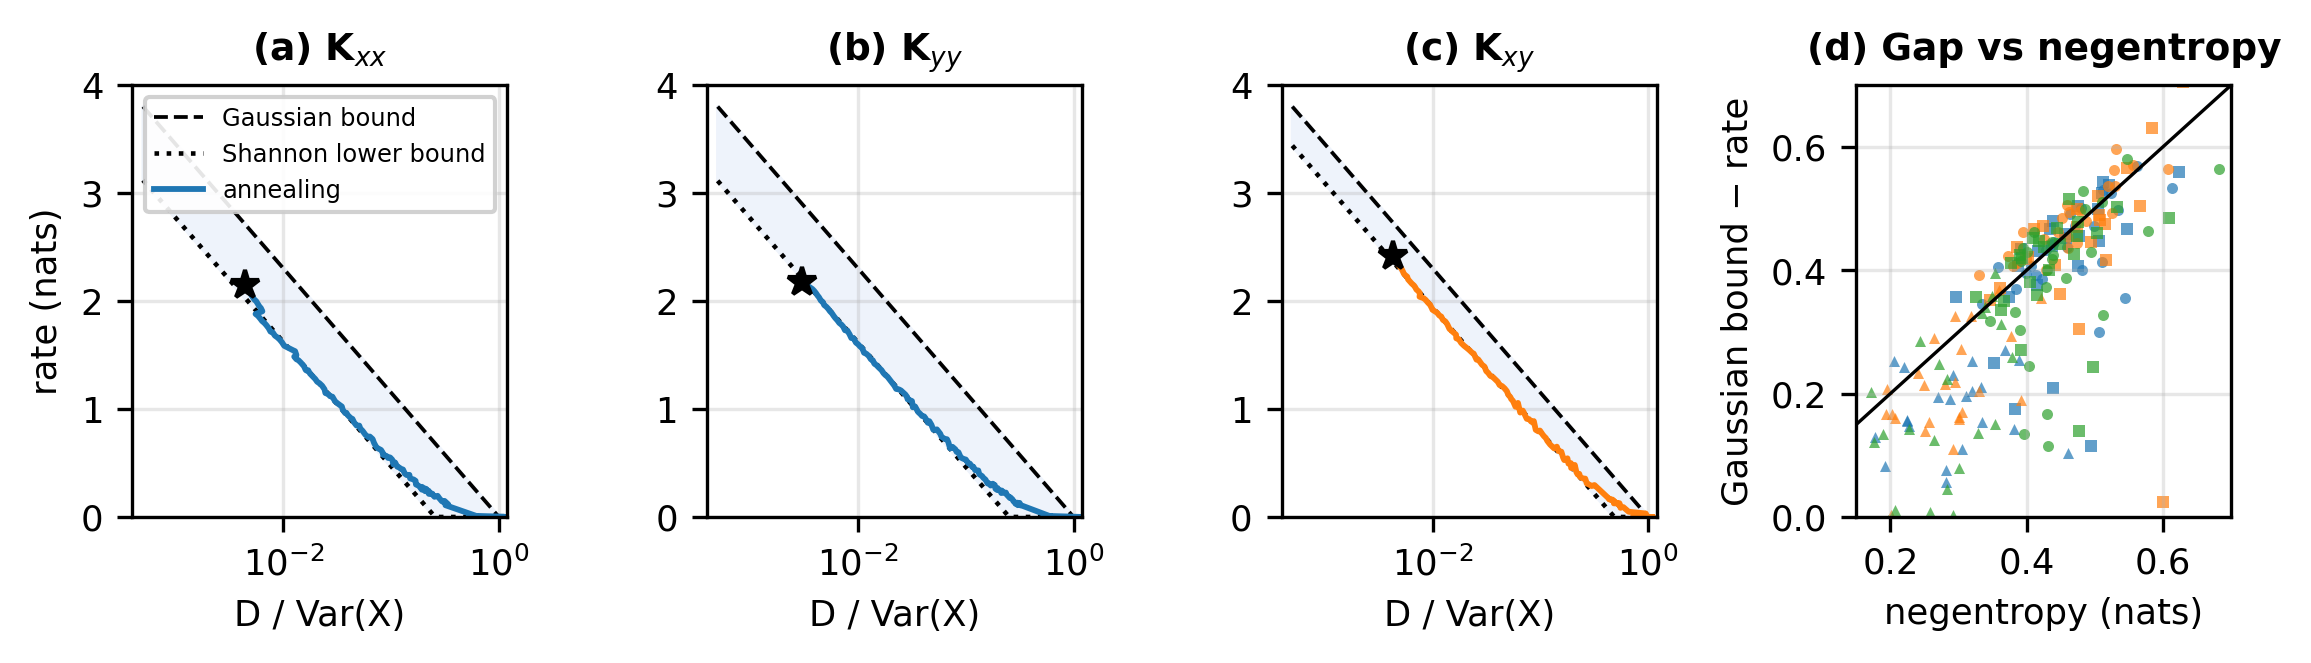
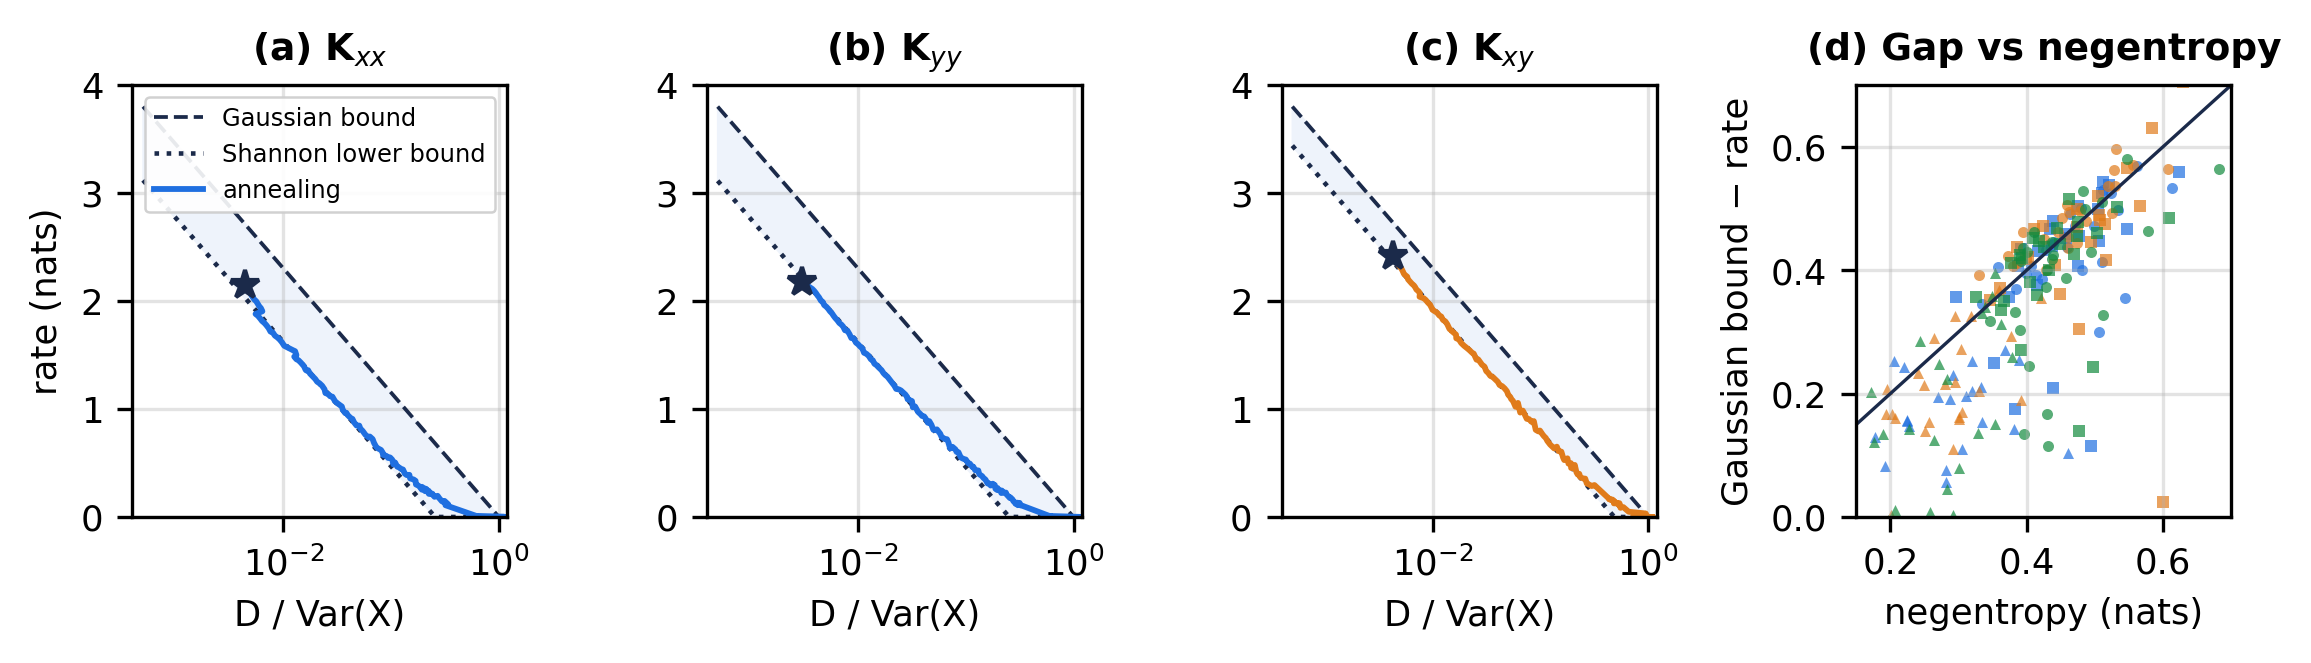
MAIN: figura do problema (condições de contorno e realizações de ln k) e paleta dos originais
Claude-Session: https://claude.ai/code/session_0147fjQ15fvJK4Kafq9micaf

diff --git a/reproducao/artigo_MAIN/main_figures.py b/reproducao/artigo_MAIN/main_figures.py
@@ -2,8 +2,10 @@ import json, sys, pickle, numpy as np, matplotlib
 matplotlib.use("Agg")
 import matplotlib.pyplot as plt
 from matplotlib.patches import Rectangle
-BLUE, ORANGE, AQUA, YEL, INK, MUTED = "#1f77b4", "#ff7f0e", "#2ca02c", "#d62728", "#000000", "#7f7f7f"
-plt.rcParams.update({"font.family": "DejaVu Sans", "font.size": 8.5, "axes.titlesize": 9, "axes.titleweight": "bold", "axes.grid": True, "grid.alpha": 0.3, "legend.frameon": True, "legend.framealpha": 0.9, "legend.edgecolor": "0.8", "savefig.dpi": 300, "figure.dpi": 150})
+# palette of the original article figures
+BLUE, ORANGE, AQUA, YEL, INK, MUTED = "#1f6fe0", "#e07b1b", "#128a3e", "#c62828", "#1b2a4a", "#8a8a8a"
+GREEN, RED = AQUA, YEL
+plt.rcParams.update({"patch.force_edgecolor": True, "patch.edgecolor": "black", "patch.linewidth": 0.6, "font.family": "DejaVu Sans", "font.size": 8.5, "axes.titlesize": 9, "axes.titleweight": "bold", "axes.grid": True, "grid.alpha": 0.35, "legend.frameon": True, "legend.framealpha": 0.9, "legend.edgecolor": "0.8", "savefig.dpi": 300, "figure.dpi": 150})
 import os
 OUT = "figuras/"; os.makedirs(OUT + "supp", exist_ok=True)
 PN = {"1.1": "Problem 1", "1.3": "Problem 2", "1.4": "Problem 3"}; PC = {"1.1": BLUE, "1.3": ORANGE, "1.4": AQUA}
@@ -11,24 +13,47 @@ CN = {"xx": "K$_{xx}$", "yy": "K$_{yy}$", "xy": "K$_{xy}$"}
 which = sys.argv[1:] or ["1", "2", "3", "4", "5", "6"]
 
 if "1" in which:
-    fig, ax = plt.subplots(1, 3, figsize=(7.2, 2.6))
-    BC = {"Problem 1": dict(left=1, right=0), "Problem 2": dict(bottom=1, left=0), "Problem 3": dict(left=1, right=0, top=0, bottom=0)}
-    for a, (t, bc) in zip(ax, BC.items()):
-        a.set_xlim(-2.2, 17.2); a.set_ylim(-2.2, 17.2); a.set_aspect("equal"); a.axis("off")
+    # Figure 1: boundary conditions (style of the original article) and one permeability realization per problem
+    from matplotlib.lines import Line2D
+    fig, ax = plt.subplots(2, 3, figsize=(7.4, 5.0))
+    BC = {"1.1": dict(left=1, right=0), "1.3": dict(bottom=1, left=0), "1.4": dict(left=1, right=0, top=0, bottom=0)}
+    ARR = {"1.1": ((2.5, 7.5), (12.5, 7.5)), "1.3": ((11.0, 3.0), (3.0, 11.5)), "1.4": ((2.5, 7.5), (12.5, 7.5))}
+    seg = dict(left=([0, 0], [0, 15]), right=([15, 15], [0, 15]), bottom=([0, 15], [0, 0]), top=([0, 15], [15, 15]))
+    lab = dict(left=(-1.4, 7.5, 90), right=(16.4, 7.5, 90), bottom=(7.5, -1.4, 0), top=(7.5, 16.4, 0))
+    for j, p in enumerate(PN):
+        a = ax[0, j]; bc = BC[p]
+        a.set_xlim(-2.4, 17.4); a.set_ylim(-2.4, 17.4); a.set_aspect("equal"); a.axis("off")
         for i in range(16):
-            a.plot([i, i], [0, 15], color="#d9d8d4", lw=0.5); a.plot([0, 15], [i, i], color="#d9d8d4", lw=0.5)
+            a.plot([i, i], [0, 15], color="#d9d9d9", lw=0.5); a.plot([0, 15], [i, i], color="#d9d9d9", lw=0.5)
         for i in range(0, 16, 3):
-            a.plot([i, i], [0, 15], color="0.35", lw=1.0); a.plot([0, 15], [i, i], color="0.35", lw=1.0)
-        seg = dict(left=([0, 0], [0, 15]), right=([15, 15], [0, 15]), bottom=([0, 15], [0, 0]), top=([0, 15], [15, 15]))
+            a.plot([i, i], [0, 15], color="0.15", lw=1.0); a.plot([0, 15], [i, i], color="0.15", lw=1.0)
         for f, (xs, ys) in seg.items():
-            v = bc.get(f); col = MUTED if v is None else (BLUE if v == 1 else ORANGE)
-            a.plot(xs, ys, color=col, lw=4 if v is not None else 2.5, solid_capstyle="butt")
-        lab = dict(left=(-1.3, 7.5, 90), right=(16.3, 7.5, 90), bottom=(7.5, -1.3, 0), top=(7.5, 16.3, 0))
-        for f, (x, y, r) in lab.items():
-            v = bc.get(f); s = "no flow" if v is None else f"u = {v}"
-            a.text(x, y, s, ha="center", va="center", rotation=r, fontsize=7, color=INK if v is not None else MUTED)
-        a.set_title(t)
-    fig.tight_layout(); fig.savefig(OUT+"fig1.png", bbox_inches="tight"); plt.close(fig)
+            v = bc.get(f)
+            a.plot(xs, ys, color=GREEN if v is None else BLUE, lw=4.5, solid_capstyle="butt")
+            x, y, r = lab[f]
+            a.text(x, y, "∂p/∂n = 0" if v is None else f"p = {v:.1f}", ha="center", va="center", rotation=r, fontsize=7,
+                   color=GREEN if v is None else BLUE, fontweight="bold")
+        (x0, y0), (x1, y1) = ARR[p]
+        a.annotate("", (x1, y1), (x0, y0), arrowprops=dict(arrowstyle="-|>", color=RED, lw=2.2, mutation_scale=14))
+        a.text((x0 + x1) / 2 + 0.6, (y0 + y1) / 2 + 0.9, "q", color=RED, fontsize=10, fontweight="bold")
+        a.set_title(f"({'abc'[j]}) {PN[p]}")
+        r = pickle.load(open(f"_cache_P{p.replace('.', '_')}_NR1000_v14.pkl", "rb"))
+        b = ax[1, j]; lk = np.log(r["K_micro_first_realiz"])
+        im = b.imshow(lk, origin="lower", cmap="viridis", extent=[0, 15, 0, 15], vmin=-2.5, vmax=2.5)
+        for g in range(0, 16, 3):
+            b.axvline(g, color="white", lw=1.0); b.axhline(g, color="white", lw=1.0)
+        b.grid(False); b.set_xticks([0, 5, 10, 15]); b.set_yticks([0, 5, 10, 15]); b.tick_params(labelsize=7)
+        b.set_xlabel("x (m)", fontsize=7.5); b.set_title(f"({'def'[j]}) ln κ, one realization")
+        if j == 0: b.set_ylabel("y (m)", fontsize=7.5)
+    
+    h = [Line2D([], [], color=BLUE, lw=4.5), Line2D([], [], color=GREEN, lw=4.5), Line2D([], [], color="#d9d9d9", lw=1.2),
+         Line2D([], [], color="0.15", lw=1.2), Line2D([], [], color=RED, lw=2.2, marker=">", ms=6)]
+    fig.legend(h, ["Dirichlet: imposed pressure", "Neumann: no flow", "fine grid 15 × 15", "coarse grid 5 × 5 (α = 3)", "Darcy flux q"],
+               loc="lower center", ncol=5, fontsize=6.5, frameon=True, bbox_to_anchor=(0.46, -0.01))
+    fig.subplots_adjust(left=0.06, right=0.9, top=0.96, bottom=0.12, hspace=0.12, wspace=0.18)
+    pos = ax[1, 2].get_position(); cax = fig.add_axes([pos.x1 + 0.012, pos.y0, 0.013, pos.height])
+    cb = fig.colorbar(im, cax=cax); cb.set_label("ln κ", fontsize=7.5); cb.ax.tick_params(labelsize=7)
+    fig.savefig(OUT+"fig1.png", bbox_inches="tight"); plt.close(fig)
 
 if "2" in which:
     d = json.load(open("main_tc_cells.json")); alpha = 0.953

diff --git a/reproducao/artigo_MAIN/main_flow_figures.py b/reproducao/artigo_MAIN/main_flow_figures.py
@@ -3,7 +3,7 @@ Style of the original article: viridis maps, micro panels in micro-mesh indices 
 import json, pickle, os, numpy as np, matplotlib
 matplotlib.use("Agg")
 import matplotlib.pyplot as plt
-C = plt.rcParams["axes.prop_cycle"].by_key()["color"]      # matplotlib default (tab10)
+BLUE, ORANGE, GREEN, RED, GREY = "#1f6fe0", "#e07b1b", "#128a3e", "#c62828", "#8a8a8a"   # palette of the original article figures
 plt.rcParams.update({"font.family": "DejaVu Sans", "font.size": 8, "axes.titlesize": 8, "axes.titleweight": "bold",
                      "axes.grid": False, "savefig.dpi": 300, "figure.dpi": 150})
 OUT = os.environ.get("OUT", "figuras/"); os.makedirs(OUT, exist_ok=True)
@@ -47,9 +47,9 @@ for r, p in enumerate(("1.1", "1.3", "1.4")):
 fig.tight_layout(); fig.savefig(OUT+"fig8.png", bbox_inches="tight"); plt.close(fig)
 
 # Figure 9: summary
-V = [("noise_floor", "micro vs micro (500/500)", C[7]), ("UPS", "upscaled, no compression", C[0]), ("DA25", "DA, 25 independent", C[1]),
-     ("DAI", "DA, 1000 independent", C[2]), ("DAC", "DA, 1000 with copula", C[3])]
-plt.rcParams.update({"axes.grid": True, "grid.alpha": 0.3})
+V = [("noise_floor", "micro vs micro (500/500)", GREY), ("UPS", "upscaled, no compression", GREEN), ("DA25", "DA, 25 independent", BLUE),
+     ("DAI", "DA, 1000 independent", ORANGE), ("DAC", "DA, 1000 with copula", RED)]
+plt.rcParams.update({"axes.grid": True, "grid.alpha": 0.35, "patch.force_edgecolor": True, "patch.edgecolor": "black", "patch.linewidth": 0.6})
 fig, ax = plt.subplots(1, 3, figsize=(7.6, 2.6)); x = np.arange(3); w = 0.16
 for k, (key, lab, col) in enumerate(V):
     for j, (q, t) in enumerate((("mean", "(a) Mean pressure, rel. L$^2$ error (%)"), ("sd", "(b) Sd of pressure, rel. L$^2$ error (%)"))):
